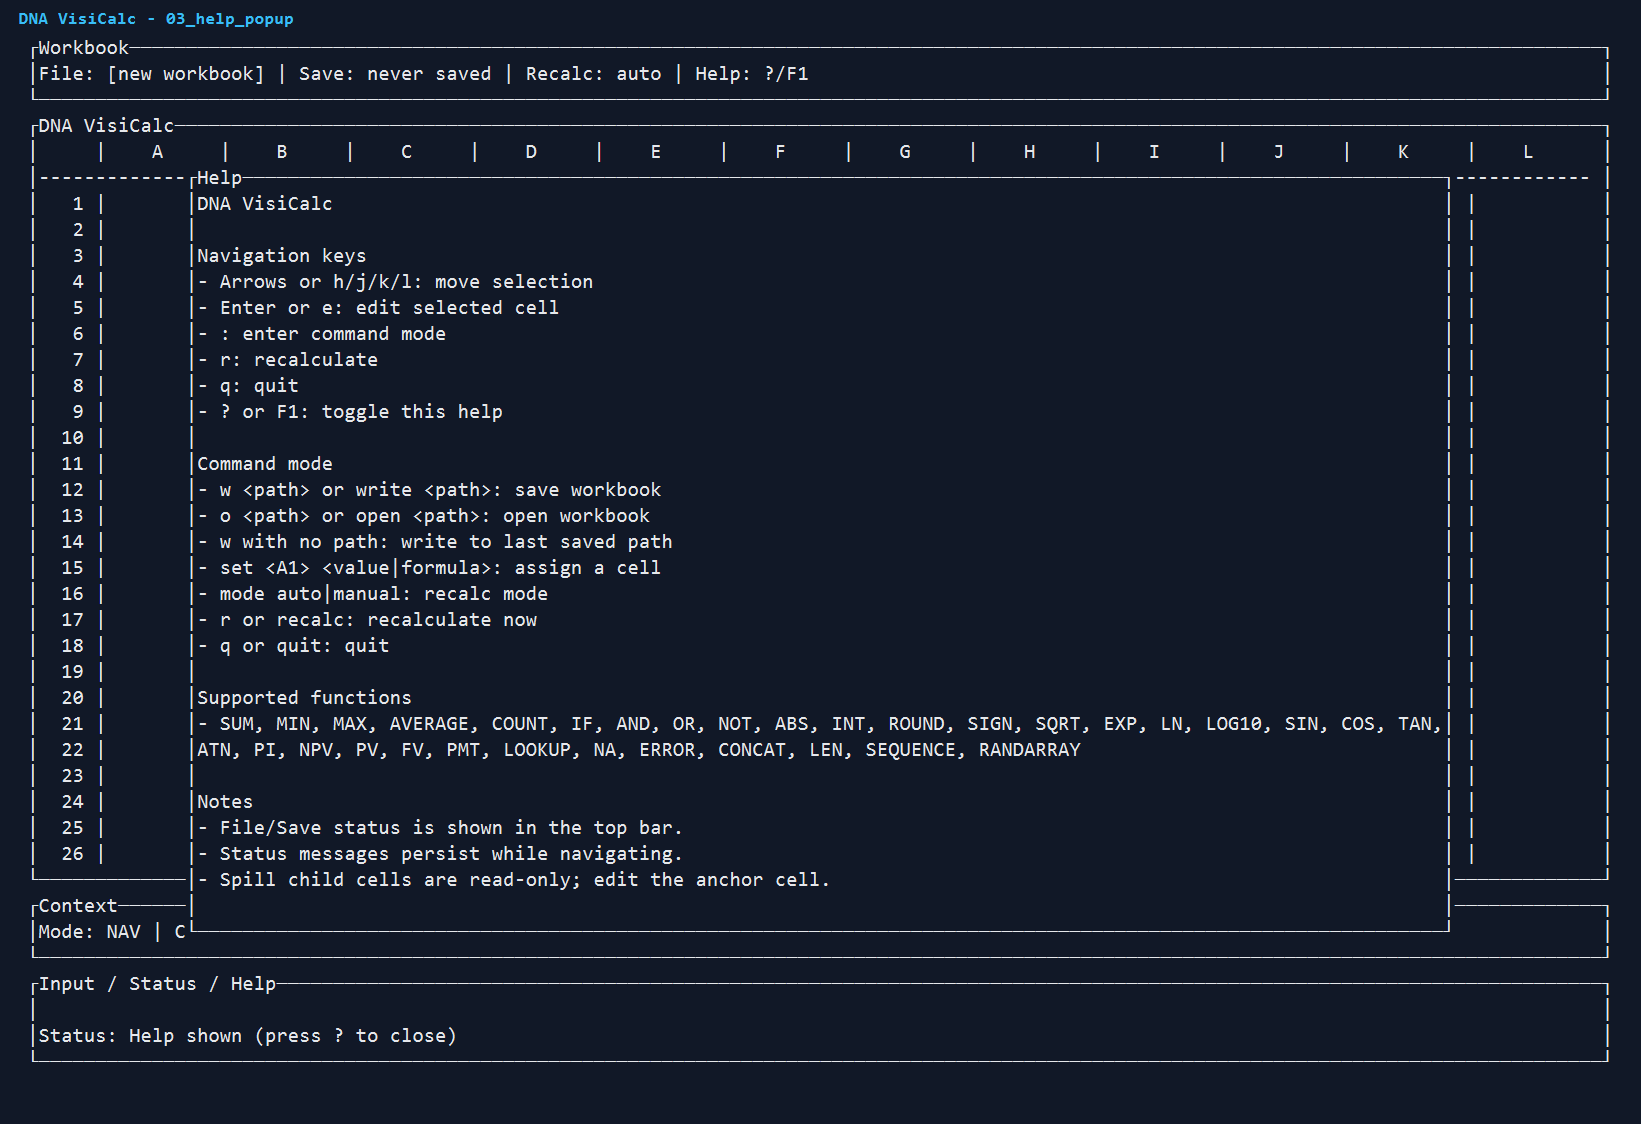
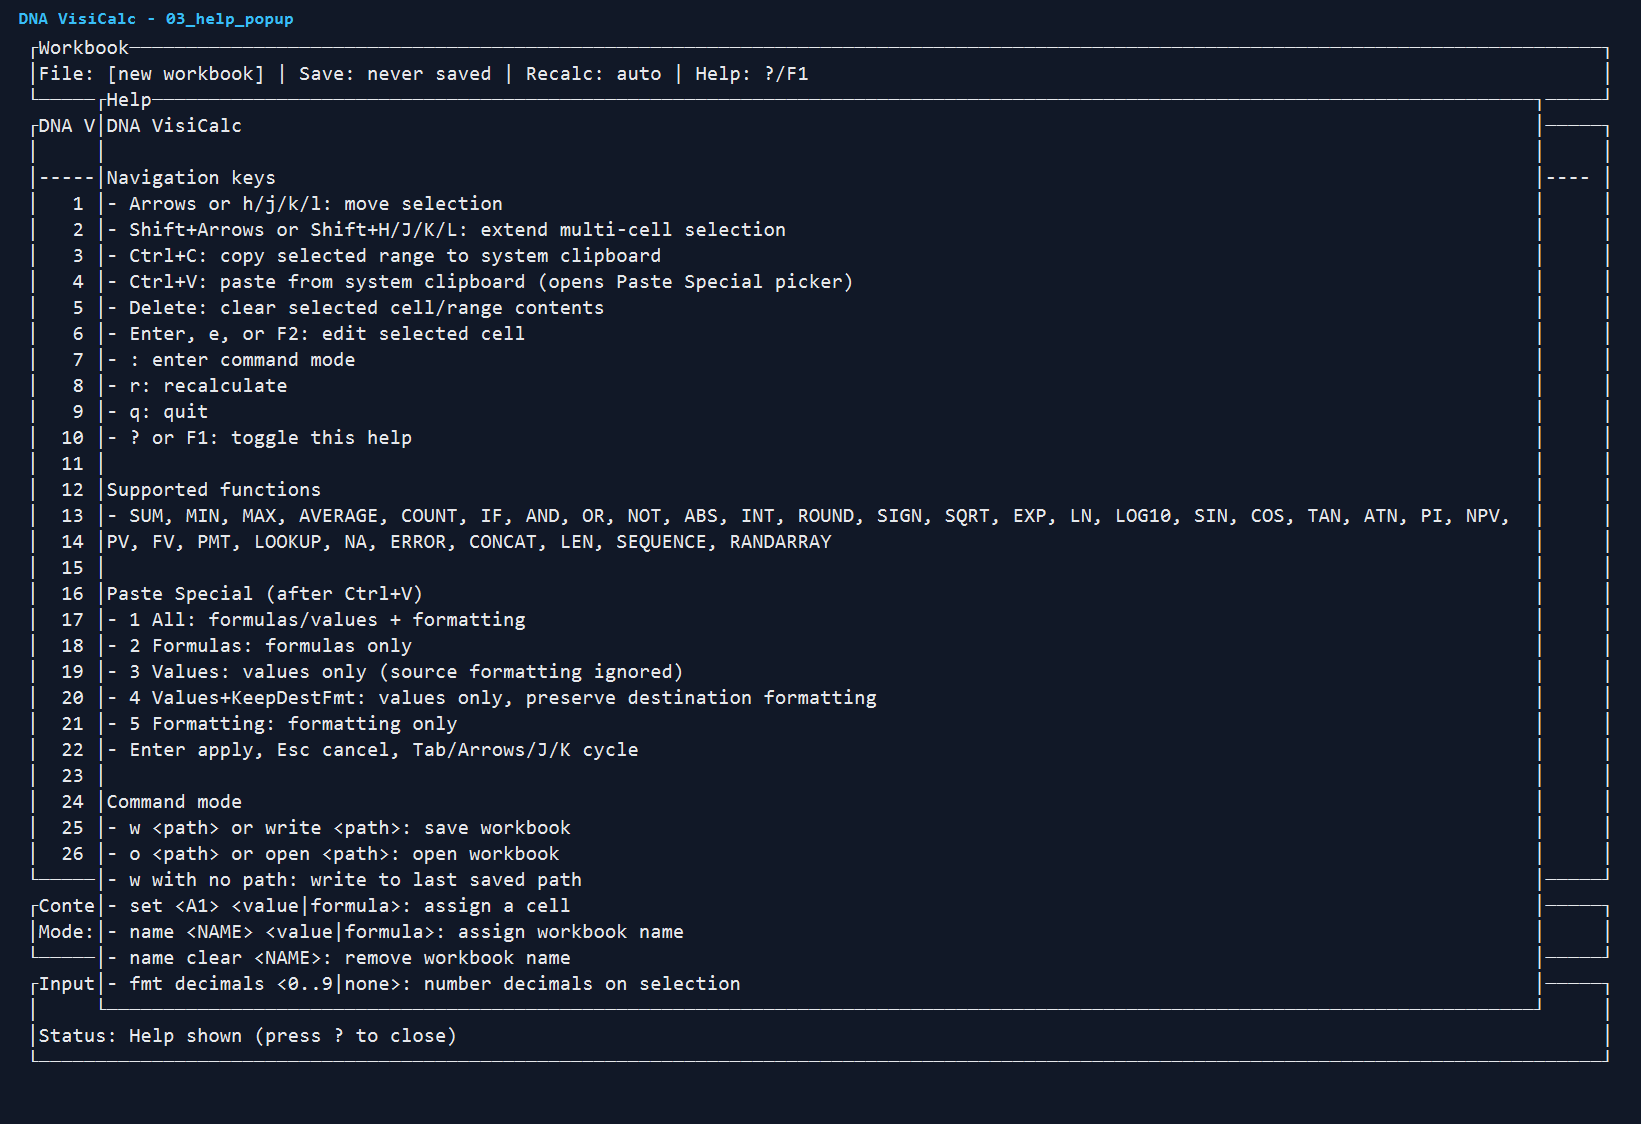
Expand README screenshots for names, paste special, formatting, and dynamic arrays

diff --git a/crates/dnavisicalc-tui/src/bin/capture_scenes.rs b/crates/dnavisicalc-tui/src/bin/capture_scenes.rs
@@ -14,6 +14,11 @@ fn main() -> Result<(), Box<dyn std::error::Error>> {
     capture_help(out_dir.join("03_help_popup.txt"))?;
     capture_command(out_dir.join("04_command_mode.txt"))?;
     capture_numerical_model(out_dir.join("05_numerical_model.txt"))?;
+    capture_names_model(out_dir.join("06_names_model.txt"))?;
+    capture_paste_special_picker(out_dir.join("07_paste_special_picker.txt"))?;
+    capture_paste_special_result(out_dir.join("08_paste_special_result.txt"))?;
+    capture_formatting_and_colors(out_dir.join("09_formatting_colors.txt"))?;
+    capture_dynamic_arrays(out_dir.join("10_dynamic_arrays.txt"))?;
 
     Ok(())
 }
@@ -75,22 +80,163 @@ fn capture_numerical_model(path: impl AsRef<Path>) -> Result<(), Box<dyn std::er
         "set C3 =ROUND(A3*B3,2)",
         "set D3 =ROUND((C3-C2)/C2*100,2)",
         "set E3 =ROUND(PMT(0.05/12,360,300000),2)",
-        "set F1 NPV",
+        "set F1 NPV_10%",
         "set F3 =ROUND(NPV(0.1,C2:C3),2)",
+        "set G1 Notes",
+        "set G2 C2=ROUND(A2*B2,2)",
+        "set G3 D3=ROUND((C3-C2)/C2*100,2)",
     ];
 
-    for command in commands {
-        apply_command(&mut app, &mut io, command);
-    }
-
-    for _ in 0..4 {
-        app.apply(Action::MoveDown, &mut io);
-    }
-    for _ in 0..4 {
-        app.apply(Action::MoveRight, &mut io);
-    }
+    apply_commands(&mut app, &mut io, &commands);
+    app.apply(Action::MoveRight, &mut io);
+    app.apply(Action::MoveRight, &mut io);
+    app.apply(Action::MoveDown, &mut io);
+    app.apply(Action::MoveDown, &mut io);
 
     write_scene(&app, path)
+}
+
+fn capture_names_model(path: impl AsRef<Path>) -> Result<(), Box<dyn std::error::Error>> {
+    let mut app = App::new();
+    let mut io = MemoryWorkbookIo::new();
+
+    let commands = [
+        "name TAX_RATE 0.21",
+        "name DISCOUNT 0.05",
+        "set A1 Base",
+        "set B1 Gross",
+        "set C1 Tax",
+        "set D1 AfterDisc",
+        "set A2 100",
+        "set B2 =ROUND(A2*(1+TAX_RATE),2)",
+        "set C2 =ROUND(B2-A2,2)",
+        "set D2 =ROUND(B2*(1-DISCOUNT),2)",
+        "set A3 250",
+        "set B3 =ROUND(A3*(1+TAX_RATE),2)",
+        "set C3 =ROUND(B3-A3,2)",
+        "set D3 =ROUND(B3*(1-DISCOUNT),2)",
+    ];
+    apply_commands(&mut app, &mut io, &commands);
+
+    app.apply(Action::MoveRight, &mut io);
+    app.apply(Action::MoveDown, &mut io);
+    app.apply(Action::MoveDown, &mut io);
+
+    write_scene(&app, path)
+}
+
+fn capture_paste_special_picker(path: impl AsRef<Path>) -> Result<(), Box<dyn std::error::Error>> {
+    let mut app = App::new();
+    let mut io = MemoryWorkbookIo::new();
+
+    let commands = [
+        "set A1 Product",
+        "set B1 Units",
+        "set A2 DNA",
+        "set B2 =LEN(A2)*10",
+    ];
+    apply_commands(&mut app, &mut io, &commands);
+
+    app.apply(Action::MoveRight, &mut io);
+    app.apply(Action::MoveDown, &mut io);
+    app.apply(Action::ExtendLeft, &mut io);
+    app.apply(Action::ExtendUp, &mut io);
+    app.apply(Action::CopySelection, &mut io);
+
+    let clipboard_text = app
+        .last_copy_text()
+        .map(ToString::to_string)
+        .unwrap_or_else(|| "DNA\t30".to_string());
+
+    app.apply(Action::MoveRight, &mut io);
+    app.apply(Action::MoveRight, &mut io);
+    app.apply(Action::MoveDown, &mut io);
+    app.apply(Action::MoveDown, &mut io);
+    app.apply(Action::BeginPasteFromClipboard(clipboard_text), &mut io);
+    app.apply(Action::InputChar('2'), &mut io);
+
+    write_scene(&app, path)
+}
+
+fn capture_paste_special_result(path: impl AsRef<Path>) -> Result<(), Box<dyn std::error::Error>> {
+    let mut app = App::new();
+    let mut io = MemoryWorkbookIo::new();
+
+    let commands = ["set A1 1", "set B1 =A1+10", "set A2 2", "set B2 =A2+10"];
+    apply_commands(&mut app, &mut io, &commands);
+
+    app.apply(Action::MoveRight, &mut io);
+    app.apply(Action::MoveDown, &mut io);
+    app.apply(Action::ExtendLeft, &mut io);
+    app.apply(Action::ExtendUp, &mut io);
+    app.apply(Action::CopySelection, &mut io);
+    let clipboard_text = app
+        .last_copy_text()
+        .map(ToString::to_string)
+        .unwrap_or_else(|| "1\t11\n2\t12".to_string());
+
+    app.apply(Action::MoveRight, &mut io);
+    app.apply(Action::MoveRight, &mut io);
+    app.apply(Action::MoveDown, &mut io);
+    app.apply(Action::MoveDown, &mut io);
+    app.apply(Action::BeginPasteFromClipboard(clipboard_text), &mut io);
+    app.apply(Action::InputChar('4'), &mut io);
+    app.apply(Action::Submit, &mut io);
+
+    write_scene(&app, path)
+}
+
+fn capture_formatting_and_colors(path: impl AsRef<Path>) -> Result<(), Box<dyn std::error::Error>> {
+    let mut app = App::new();
+    let mut io = MemoryWorkbookIo::new();
+
+    let commands = [
+        "set A1 Forest",
+        "set B1 =A1&\" theme\"",
+        "set A2 3.14159",
+        "set B2 =A2*2",
+    ];
+    apply_commands(&mut app, &mut io, &commands);
+
+    app.apply(Action::MoveRight, &mut io);
+    app.apply(Action::MoveDown, &mut io);
+    app.apply(Action::ExtendLeft, &mut io);
+    app.apply(Action::ExtendUp, &mut io);
+    apply_commands(
+        &mut app,
+        &mut io,
+        &[
+            "fmt bold on",
+            "fmt italic on",
+            "fmt fg fern",
+            "fmt bg sand",
+            "fmt decimals 2",
+        ],
+    );
+
+    write_scene(&app, path)
+}
+
+fn capture_dynamic_arrays(path: impl AsRef<Path>) -> Result<(), Box<dyn std::error::Error>> {
+    let mut app = App::new();
+    let mut io = MemoryWorkbookIo::new();
+
+    let commands = [
+        "set A1 =SEQUENCE(4,3,1,1)",
+        "set E1 =RANDARRAY(4,2,10,99,TRUE)",
+        "set H1 =SUM(A1#)",
+        "set H2 =AVERAGE(A1#)",
+        "set H3 =MAX(A1#)",
+    ];
+    apply_commands(&mut app, &mut io, &commands);
+
+    write_scene(&app, path)
+}
+
+fn apply_commands(app: &mut App, io: &mut MemoryWorkbookIo, commands: &[&str]) {
+    for command in commands {
+        apply_command(app, io, command);
+    }
 }
 
 fn apply_command(app: &mut App, io: &mut MemoryWorkbookIo, command: &str) {

diff --git a/README.md b/README.md
@@ -19,9 +19,29 @@ Command mode:
 
 ![Command Mode](docs/images/04_command_mode.png)
 
-Numerical model (formulas + financial functions):
+Numerical model (formulas visible in input panel + financial functions):
 
 ![Numerical Model](docs/images/05_numerical_model.png)
+
+Names-driven model (`TAX_RATE`, `DISCOUNT`) with formula references:
+
+![Names Model](docs/images/06_names_model.png)
+
+Paste Special picker (`Ctrl+V`, choose mode):
+
+![Paste Special Picker](docs/images/07_paste_special_picker.png)
+
+Paste Special applied (`Values+KeepDestFmt`):
+
+![Paste Special Result](docs/images/08_paste_special_result.png)
+
+Formatting pass (decimals, bold/italic, fg/bg palette commands on selection):
+
+![Formatting and Colors](docs/images/09_formatting_colors.png)
+
+Dynamic arrays (`SEQUENCE`, `RANDARRAY`, spill ranges, `A1#` aggregates):
+
+![Dynamic Arrays](docs/images/10_dynamic_arrays.png)
 
 ## Scope
 The `dnavisicalc-core` crate stays library-only and I/O free:
